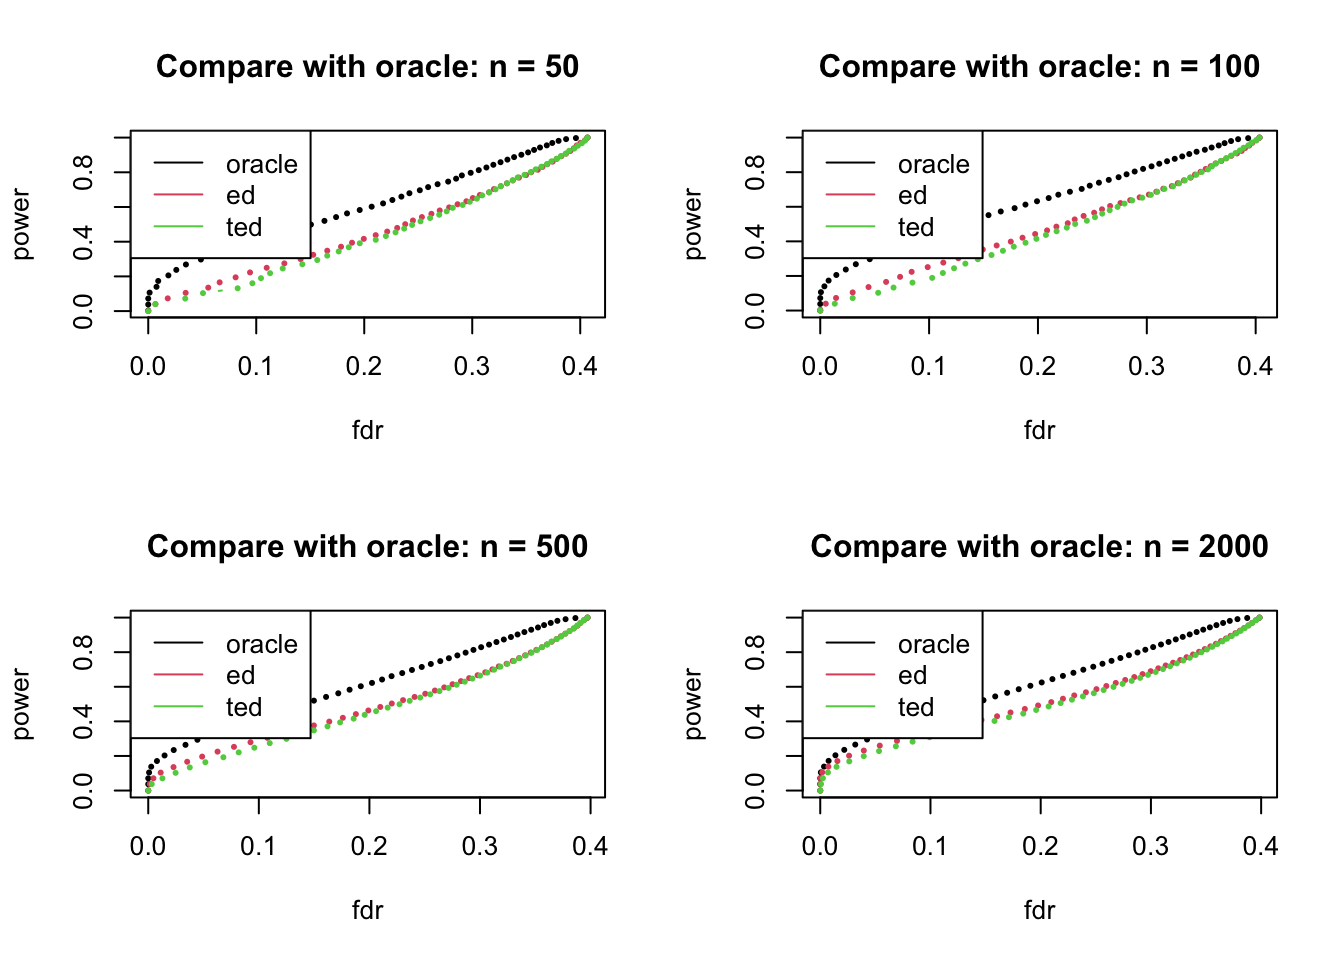
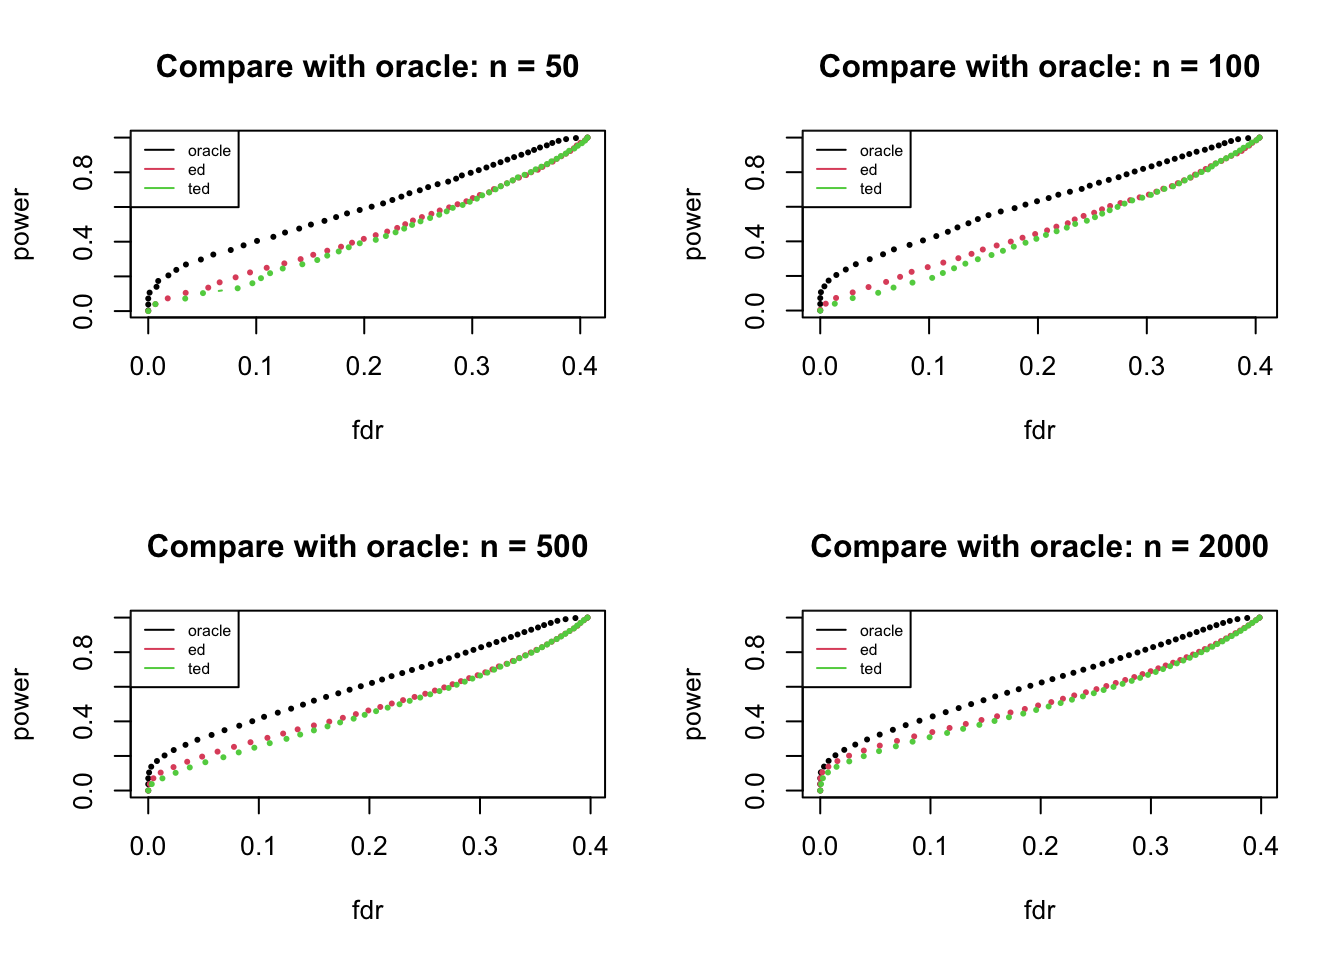
Build site.

diff --git a/docs/power_vs_fdr.html b/docs/power_vs_fdr.html
@@ -465,6 +465,9 @@ unnamed-chunk-5
 <li>
 unnamed-chunk-6
 </li>
+<li>
+unnamed-chunk-7
+</li>
 </ul>
 <p>To ensure reproducibility of the results, delete the cache directory <code>power_vs_fdr_cache</code> and re-run the analysis. To have workflowr automatically delete the cache directory prior to building the file, set <code>delete_cache = TRUE</code> when running <code>wflow_build()</code> or <code>wflow_publish()</code>.</p>
 </div>
@@ -485,16 +488,16 @@ unnamed-chunk-6
 <div class="panel panel-default">
 <div class="panel-heading">
 <p class="panel-title">
-<a data-toggle="collapse" data-parent="#workflowr-checks" href="#strongRepositoryversionstrongahrefhttpsgithubcomyunqiyang0215udrpapertree16085c9dc3383b9d37caaa93110177ff78f00ee2targetblank16085c9a"> <span class="glyphicon glyphicon-ok text-success" aria-hidden="true"></span> <strong>Repository version:</strong> <a href="https://github.com/yunqiyang0215/udr-paper/tree/16085c9dc3383b9d37caaa93110177ff78f00ee2" target="_blank">16085c9</a> </a>
+<a data-toggle="collapse" data-parent="#workflowr-checks" href="#strongRepositoryversionstrongahrefhttpsgithubcomyunqiyang0215udrpapertree881c957e084a1bd19c6ccb141496badbafec887ctargetblank881c957a"> <span class="glyphicon glyphicon-ok text-success" aria-hidden="true"></span> <strong>Repository version:</strong> <a href="https://github.com/yunqiyang0215/udr-paper/tree/881c957e084a1bd19c6ccb141496badbafec887c" target="_blank">881c957</a> </a>
 </p>
 </div>
[2 lines of base64/hex data omitted]
 <div class="panel-body">
 <p>
 Great! You are using Git for version control. Tracking code development and connecting the code version to the results is critical for reproducibility.
 </p>
 <p>
-The results in this page were generated with repository version <a href="https://github.com/yunqiyang0215/udr-paper/tree/16085c9dc3383b9d37caaa93110177ff78f00ee2" target="_blank">16085c9</a>. See the <em>Past versions</em> tab to see a history of the changes made to the R Markdown and HTML files.
+The results in this page were generated with repository version <a href="https://github.com/yunqiyang0215/udr-paper/tree/881c957e084a1bd19c6ccb141496badbafec887c" target="_blank">881c957</a>. See the <em>Past versions</em> tab to see a history of the changes made to the R Markdown and HTML files.
 </p>
 <p>
 Note that you need to be careful to ensure that all relevant files for the analysis have been committed to Git prior to generating the results (you can use <code>wflow_publish</code> or <code>wflow_git_commit</code>). workflowr only checks the R Markdown file, but you know if there are other scripts or data files that it depends on. Below is the status of the Git repository when the results were generated:
@@ -546,6 +549,40 @@ Message
 </tr>
 </thead>
 <tbody>
+<tr>
+<td>
+Rmd
+</td>
+<td>
+<a href="https://github.com/yunqiyang0215/udr-paper/blob/881c957e084a1bd19c6ccb141496badbafec887c/analysis/power_vs_fdr.Rmd" target="_blank">881c957</a>
+</td>
+<td>
+yunqiyang0215
+</td>
+<td>
+2022-10-31
+</td>
+<td>
+wflow_publish("analysis/power_vs_fdr.Rmd")
+</td>
+</tr>
+<tr>
+<td>
+html
+</td>
+<td>
+<a href="https://rawcdn.githack.com/yunqiyang0215/udr-paper/63545d10088958589812b2fae68ef794b1caf62e/docs/power_vs_fdr.html" target="_blank">63545d1</a>
+</td>
+<td>
+yunqiyang0215
+</td>
+<td>
+2022-10-31
+</td>
+<td>
+Build site.
+</td>
+</tr>
 <tr>
 <td>
 Rmd
@@ -3237,6 +3274,43 @@ points(output.ed1[[4]]$fdr, output.ed1[[4]]$power, col = 4, type = &quot;b&quot;
 legend(&quot;topleft&quot;, legend = c(&quot;n: 50&quot;, &quot;n: 100&quot;, &quot;n: 500&quot;, &quot;n: 2e3&quot;), 
        col = c(1:4), lty=1)</code></pre>
 <p><img src="figure/power_vs_fdr.Rmd/unnamed-chunk-8-1.png" width="672" style="display: block; margin: auto;" /></p>
+<p>
+<button type="button" class="btn btn-default btn-xs btn-workflowr btn-workflowr-fig" data-toggle="collapse" data-target="#fig-unnamed-chunk-8-1">
+Past versions of unnamed-chunk-8-1.png
+</button>
+</p>
+<div id="fig-unnamed-chunk-8-1" class="collapse">
+<div class="table-responsive">
+<table class="table table-condensed table-hover">
+<thead>
+<tr>
+<th>
+Version
+</th>
+<th>
+Author
+</th>
+<th>
+Date
+</th>
+</tr>
+</thead>
+<tbody>
+<tr>
+<td>
+<a href="https://github.com/yunqiyang0215/udr-paper/blob/63545d10088958589812b2fae68ef794b1caf62e/docs/figure/power_vs_fdr.Rmd/unnamed-chunk-8-1.png" target="_blank">63545d1</a>
+</td>
+<td>
+yunqiyang0215
+</td>
+<td>
+2022-10-31
+</td>
+</tr>
+</tbody>
+</table>
+</div>
+</div>
 <pre class="r"><code>
 
 plot(output.ted1[[1]]$fdr, output.ted1[[1]]$power, col = 1, type = &quot;b&quot;,  pch = 20, cex = 0.5,
@@ -3247,6 +3321,43 @@ points(output.ted1[[4]]$fdr, output.ted1[[4]]$power, col = 4, type = &quot;b&quo
 legend(&quot;topleft&quot;, legend = c(&quot;n: 50&quot;, &quot;n: 100&quot;, &quot;n: 500&quot;, &quot;n: 2e3&quot;), 
        col = c(1:4), lty=1)</code></pre>
 <p><img src="figure/power_vs_fdr.Rmd/unnamed-chunk-8-2.png" width="672" style="display: block; margin: auto;" /></p>
+<p>
+<button type="button" class="btn btn-default btn-xs btn-workflowr btn-workflowr-fig" data-toggle="collapse" data-target="#fig-unnamed-chunk-8-2">
+Past versions of unnamed-chunk-8-2.png
+</button>
+</p>
+<div id="fig-unnamed-chunk-8-2" class="collapse">
+<div class="table-responsive">
+<table class="table table-condensed table-hover">
+<thead>
+<tr>
+<th>
+Version
+</th>
+<th>
+Author
+</th>
+<th>
+Date
+</th>
+</tr>
+</thead>
+<tbody>
+<tr>
+<td>
+<a href="https://github.com/yunqiyang0215/udr-paper/blob/63545d10088958589812b2fae68ef794b1caf62e/docs/figure/power_vs_fdr.Rmd/unnamed-chunk-8-2.png" target="_blank">63545d1</a>
+</td>
+<td>
+yunqiyang0215
+</td>
+<td>
+2022-10-31
+</td>
+</tr>
+</tbody>
+</table>
+</div>
+</div>
 <pre class="r"><code>par(mfrow = c(2,2))
 
 for (i in 1:4){
@@ -3255,9 +3366,46 @@ for (i in 1:4){
      ylab = &quot;power&quot;, xlab = &quot;fdr&quot;, main = main)
 points(output.ed1[[i]]$fdr, output.ed1[[i]]$power, col = 2, type = &quot;b&quot;,  pch = 20, cex = 0.5)
 points(output.ted1[[i]]$fdr, output.ted1[[i]]$power, col = 3, type = &quot;b&quot;,  pch = 20, cex = 0.5)
-legend(&quot;topleft&quot;, legend = c(&quot;oracle&quot;, &quot;ed&quot;, &quot;ted&quot;), col = c(1:3), lty=1)
+legend(&quot;topleft&quot;, legend = c(&quot;oracle&quot;, &quot;ed&quot;, &quot;ted&quot;), col = c(1:3), lty=1, cex = 0.6)
 }</code></pre>
 <p><img src="figure/power_vs_fdr.Rmd/unnamed-chunk-9-1.png" width="672" style="display: block; margin: auto;" /></p>
+<p>
+<button type="button" class="btn btn-default btn-xs btn-workflowr btn-workflowr-fig" data-toggle="collapse" data-target="#fig-unnamed-chunk-9-1">
+Past versions of unnamed-chunk-9-1.png
+</button>
+</p>
+<div id="fig-unnamed-chunk-9-1" class="collapse">
+<div class="table-responsive">
+<table class="table table-condensed table-hover">
+<thead>
+<tr>
+<th>
+Version
+</th>
+<th>
+Author
+</th>
+<th>
+Date
+</th>
+</tr>
+</thead>
+<tbody>
+<tr>
+<td>
+<a href="https://github.com/yunqiyang0215/udr-paper/blob/63545d10088958589812b2fae68ef794b1caf62e/docs/figure/power_vs_fdr.Rmd/unnamed-chunk-9-1.png" target="_blank">63545d1</a>
+</td>
+<td>
+yunqiyang0215
+</td>
+<td>
+2022-10-31
+</td>
+</tr>
+</tbody>
+</table>
+</div>
+</div>
 <br>
 <p>
 <button type="button" class="btn btn-default btn-workflowr btn-workflowr-sessioninfo" data-toggle="collapse" data-target="#workflowr-sessioninfo" style="display: block;">
@@ -3294,10 +3442,10 @@ legend(&quot;topleft&quot;, legend = c(&quot;oracle&quot;, &quot;ed&quot;, &quot
 # [25] fs_1.5.0         vctrs_0.3.8      rprojroot_2.0.2  grid_4.1.1      
 # [29] glue_1.4.2       R6_2.5.1         fansi_0.5.0      rmarkdown_2.11  
 # [33] mixsqp_0.3-43    rmeta_3.0        irlba_2.3.5      magrittr_2.0.1  
-# [37] whisker_0.4      codetools_0.2-18 promises_1.2.0.1 ellipsis_0.3.2  
-# [41] htmltools_0.5.2  assertthat_0.2.1 abind_1.4-5      softImpute_1.4-1
-# [45] httpuv_1.6.3     utf8_1.2.2       stringi_1.7.5    truncnorm_1.0-8 
-# [49] SQUAREM_2021.1   crayon_1.4.1</code></pre>
+# [37] whisker_0.4      promises_1.2.0.1 ellipsis_0.3.2   htmltools_0.5.2 
+# [41] assertthat_0.2.1 abind_1.4-5      softImpute_1.4-1 httpuv_1.6.3    
+# [45] utf8_1.2.2       stringi_1.7.5    truncnorm_1.0-8  SQUAREM_2021.1  
+# [49] crayon_1.4.1</code></pre>
 </div>
 </div>
 </div>
